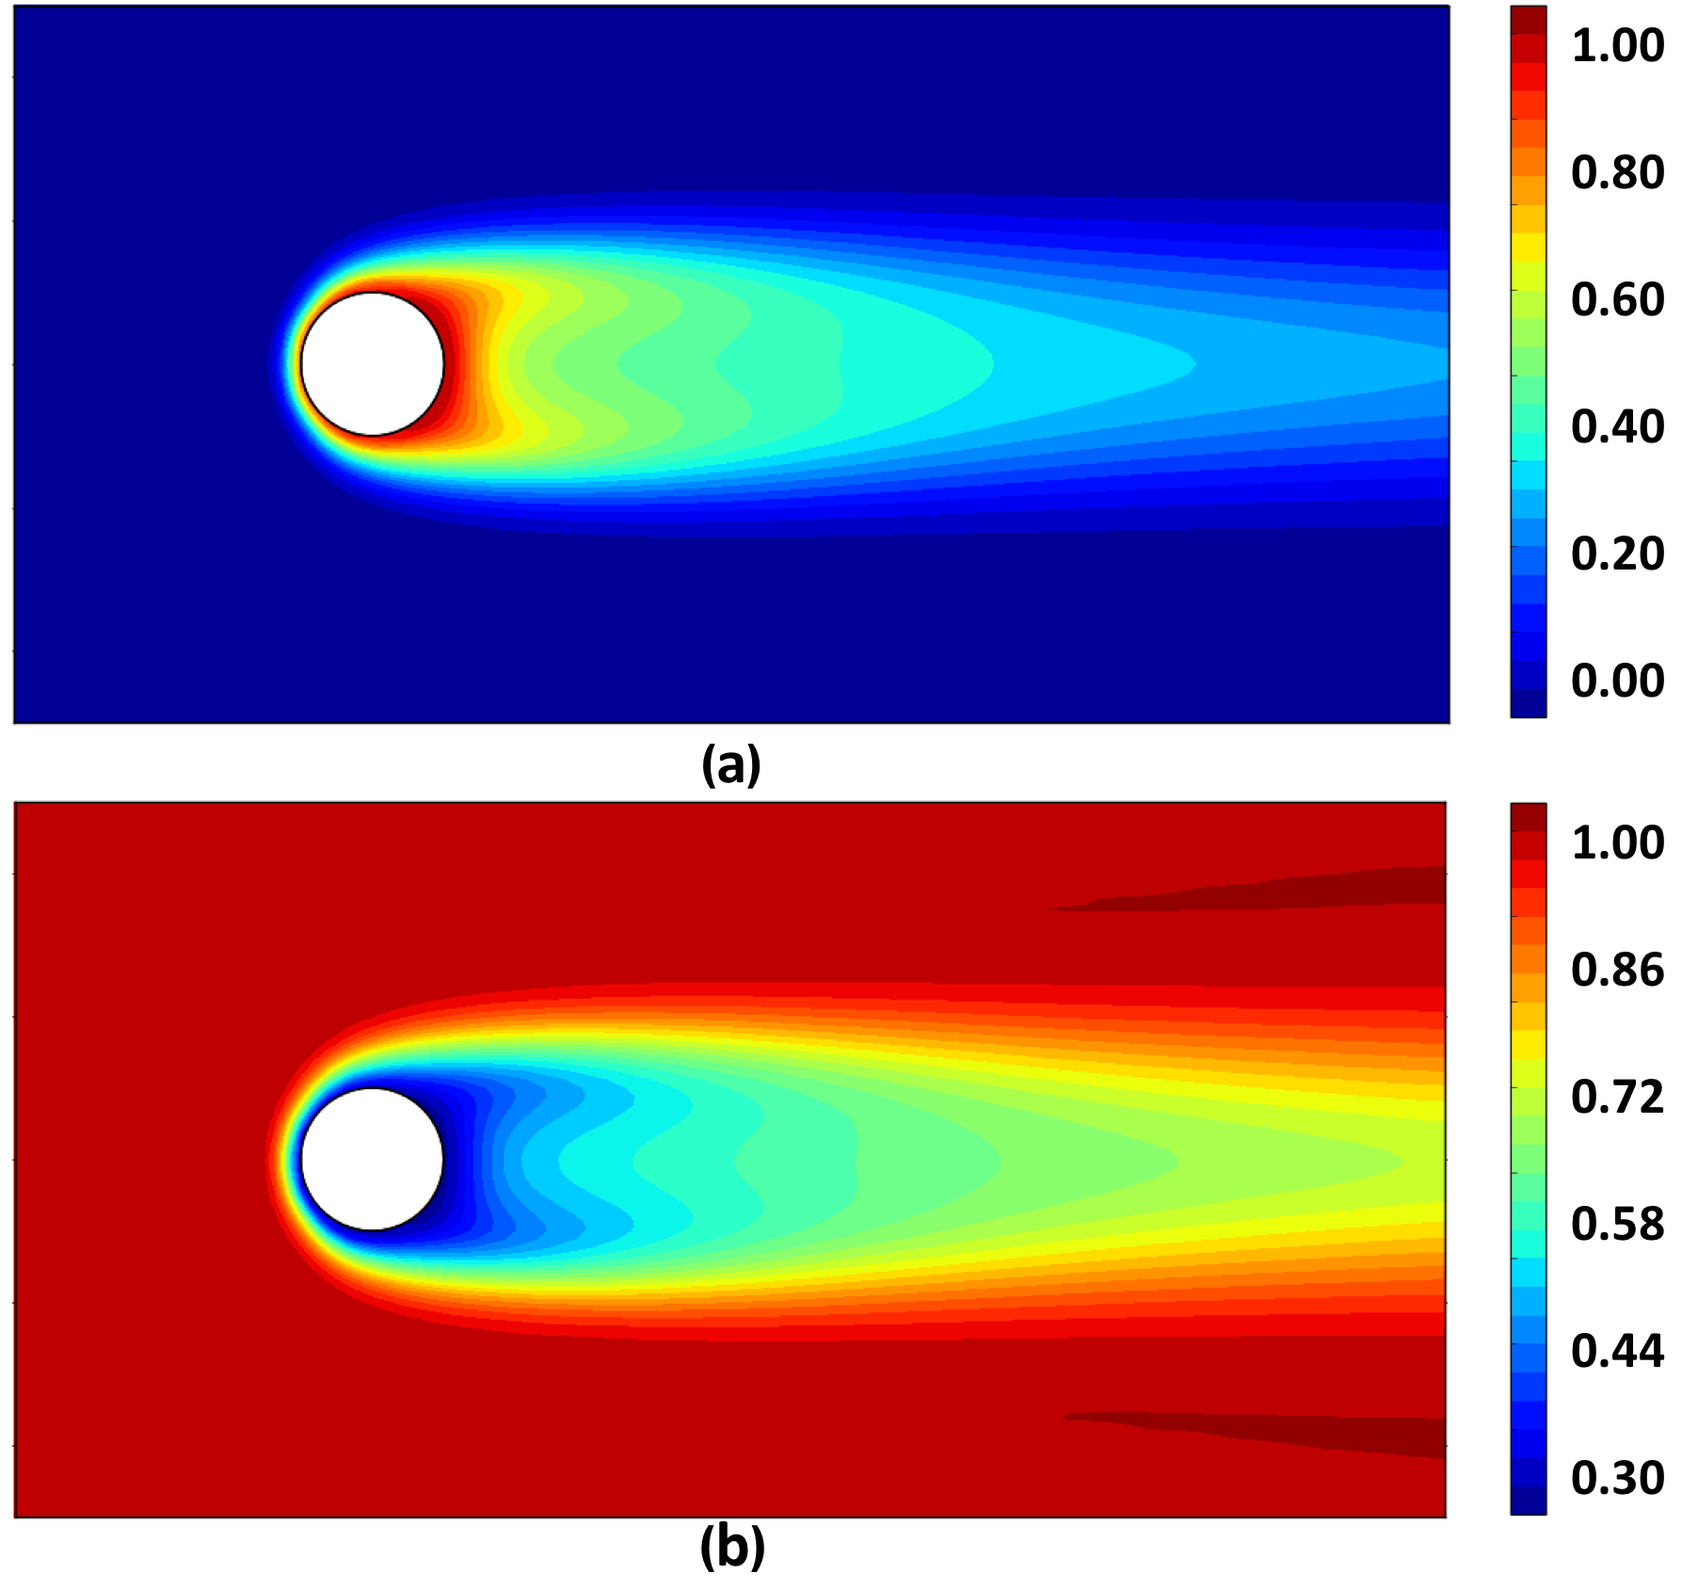
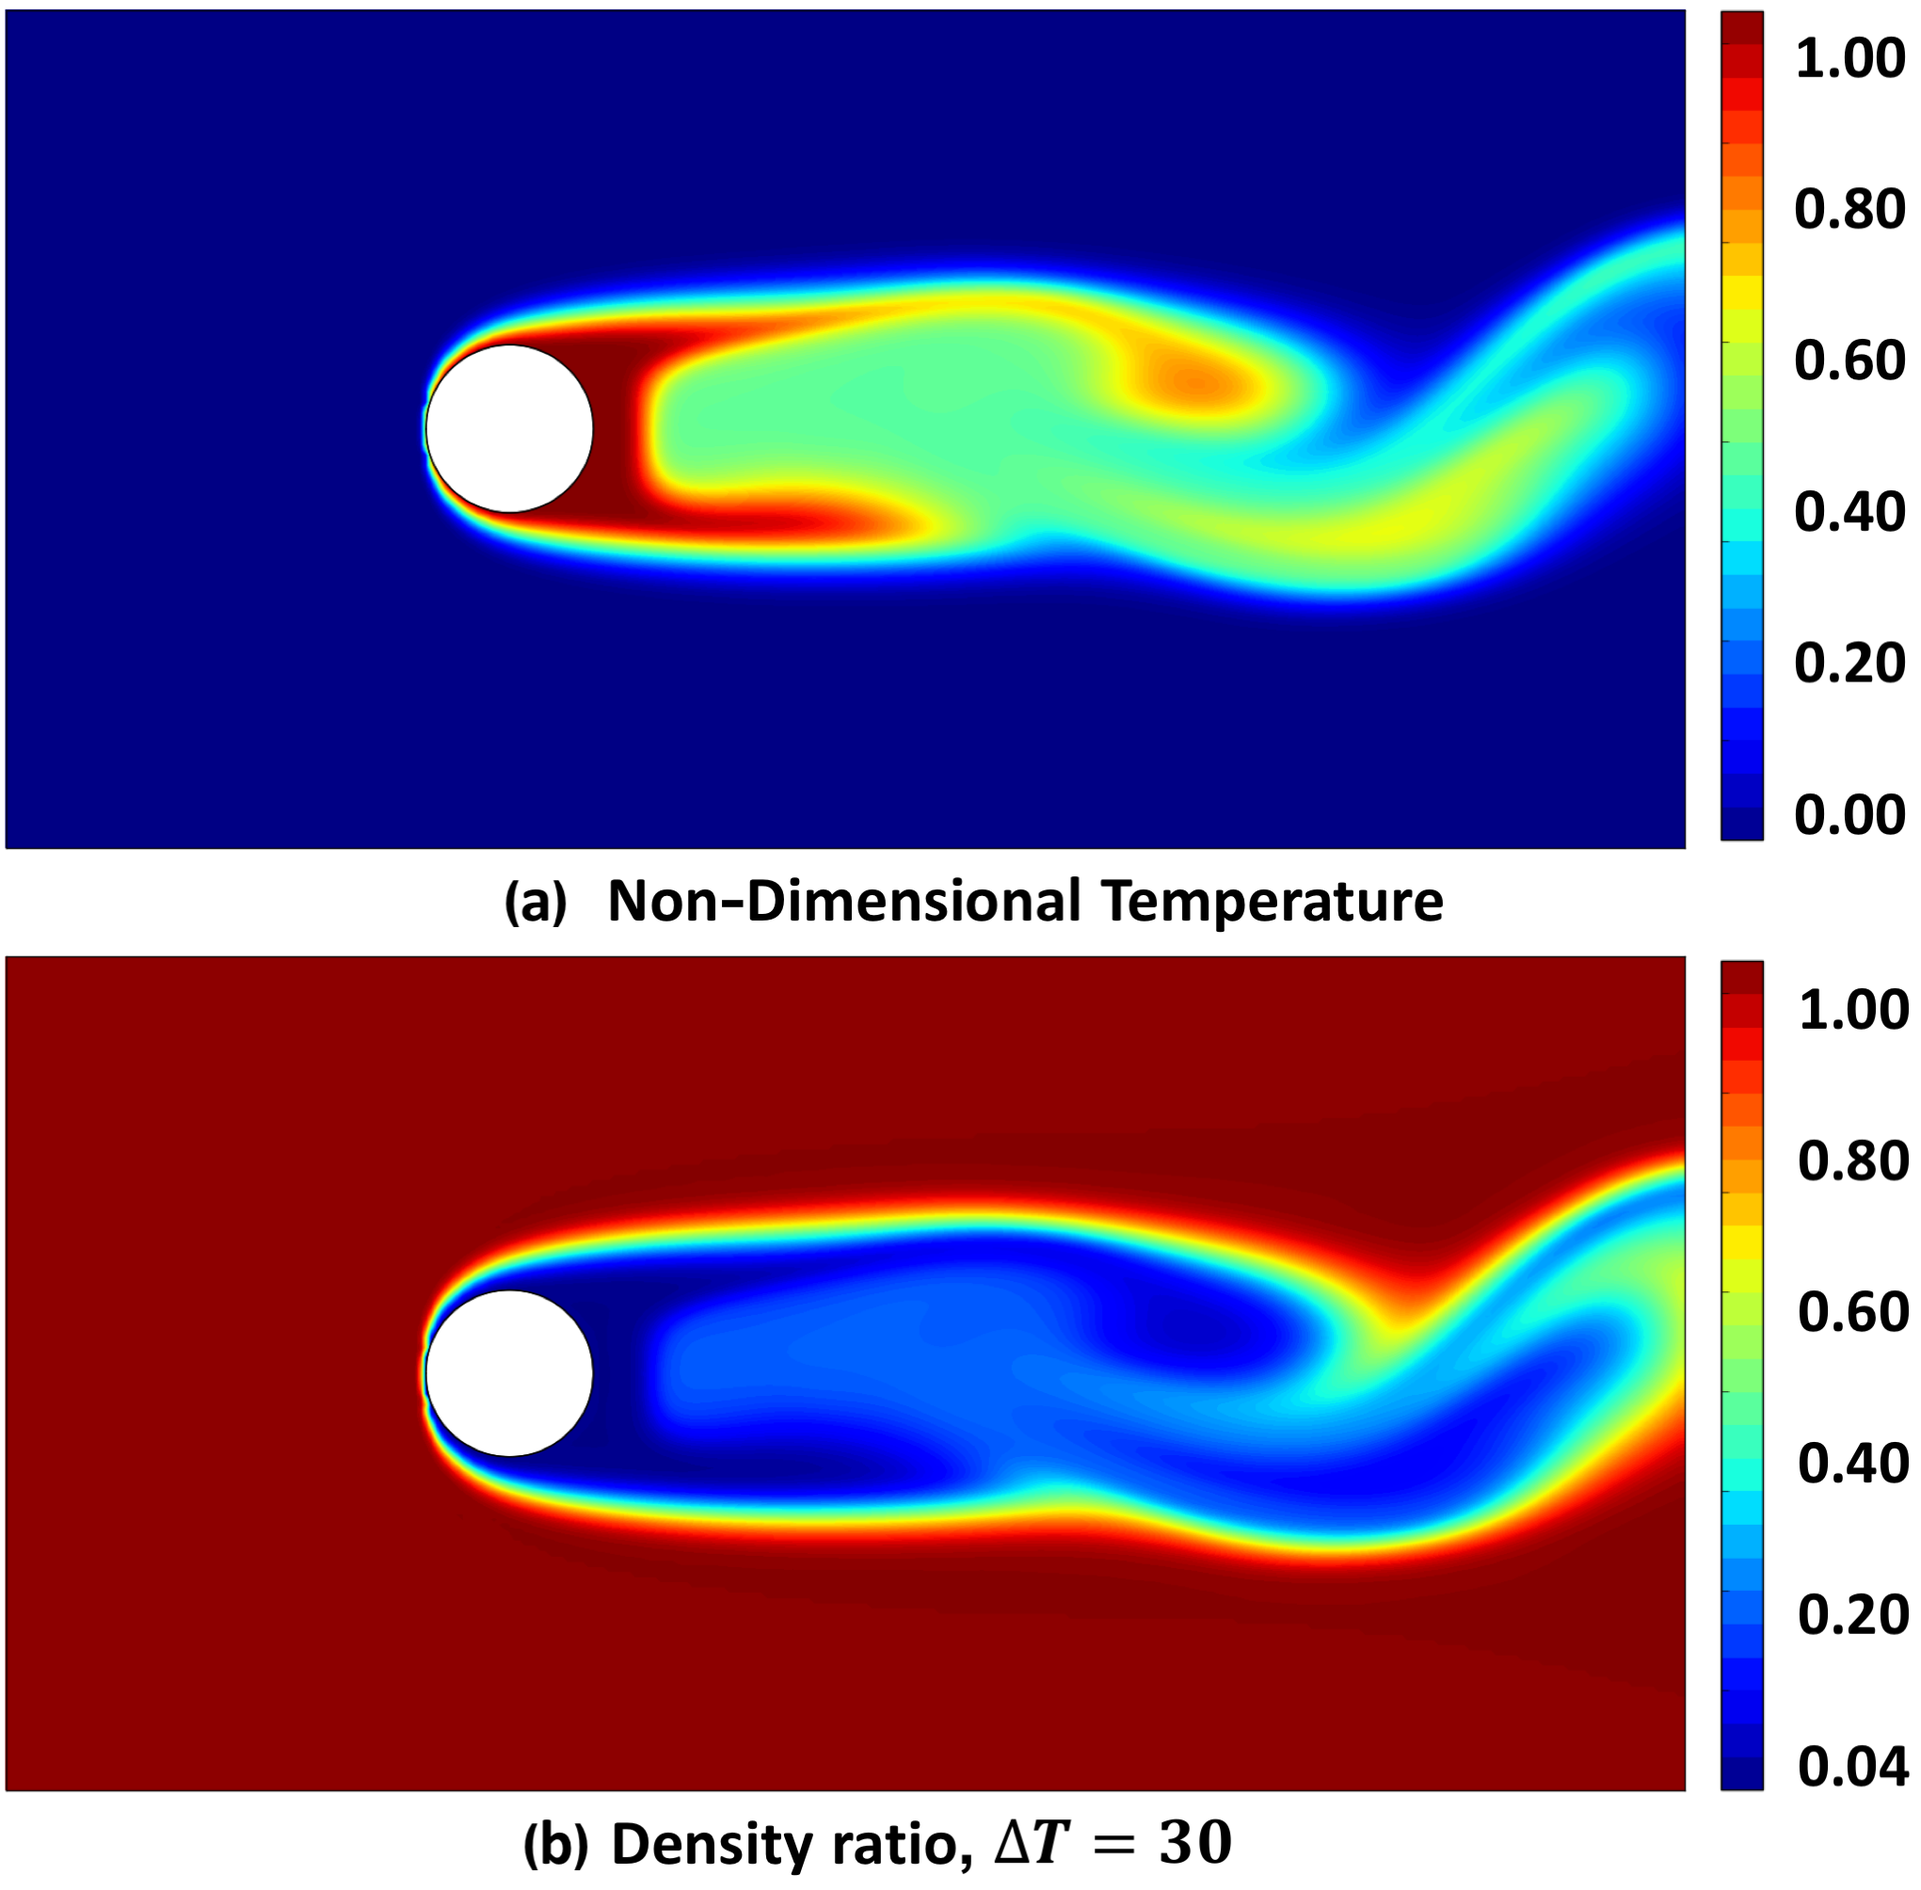
Updating README

diff --git a/README.md b/README.md
@@ -47,20 +47,20 @@
 ### 1. Wake suppression through conjugate heat transfer 
 
 <p align="center">
-  <img src="./images/Wake_Sup_2.png" width="320"/>
+  <img src="./images/Vort_WakeSup.png" width="650"/>
 </p>
 <p align="center">
 <b>
-Figure 1. Vorticity contours at t = 60 units for Re = 500 (Block size - 20 x 20) (Num blocks - 8 x 4)
+Figure 1. Vorticity contours for a cylinder in channel flow, t = 60 units and Re = 1000 (Block size - 20 x 20) (Num blocks - 16 x 8)
 </b>
 </p>
 
 <p align="center">
-  <img src="./images/Temp_Dens_2.png" width="450"/>
+  <img src="./images/Temp_Dens.png" width="400"/>
 </p>
 <p align="center">
 <b>
-Figure 2. Fluid properties during conjugate heat transfer for Re = 500 and temprature difference 20
+Figure 2. Fluid properties during conjugate heat transfer for Re = 1000
 </b>
 </p>
 
